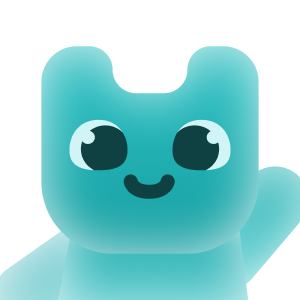
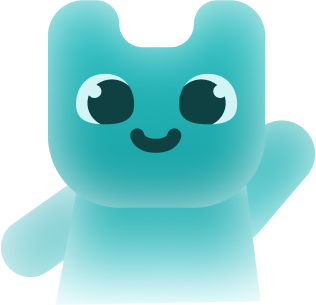
Rework home hero mascot: new art, sample-like placement, width-based fade
- Waving mascot (both arms) at bottom-right, tilted, body cropped by card
- Opacity eases out as the hero narrows instead of disappearing abruptly
- Hero label: 바로 찾는 필수 정보

Claude-Session: https://claude.ai/code/session_011hy1mZKcrnSKsSAkYKgChq

diff --git a/src/pages/home/components/RequiredInfoSection.tsx b/src/pages/home/components/RequiredInfoSection.tsx
@@ -17,6 +17,26 @@ export default function RequiredInfoSection() {
   const navigate = useNavigate();
   const sectionRef = useRef<HTMLElement>(null);
   const glowRef = useRef<HTMLSpanElement>(null);
+  const mascotRef = useRef<HTMLImageElement>(null);
+
+  // 히어로 폭이 줄어들수록 캐릭터가 서서히 투명해지도록 (갑자기 사라지지 않게)
+  useEffect(() => {
+    const section = sectionRef.current;
+    const mascot = mascotRef.current;
+    if (!section || !mascot) return;
+
+    const update = () => {
+      const width = section.clientWidth;
+      const opacity = Math.min(Math.max((width - 760) / 220, 0), 1) * 0.85;
+      mascot.style.opacity = String(opacity);
+      mascot.style.visibility = opacity === 0 ? "hidden" : "visible";
+    };
+
+    update();
+    const observer = new ResizeObserver(update);
+    observer.observe(section);
+    return () => observer.disconnect();
+  }, []);
   const { data: counts } = useInfoItemCounts();
 
   const countMap: Record<ParentCategory, number> = {
@@ -89,16 +109,18 @@ export default function RequiredInfoSection() {
         className="hero-blob pointer-events-none absolute left-0 top-0 -z-10 hidden h-[360px] w-[360px] opacity-0 transition-opacity duration-700 lg:block"
       />
 
-      {/* 임시 마스코트: 넓은 PC 화면에서만 우측에 살짝 기울여 배치 (카테고리 아이콘과 겹치지 않도록 xl 이상) */}
+      {/* 임시 마스코트: PC에서만 우측 하단에 살짝 기울여 배치, 몸통 아래는 카드 밖으로 잘림 */}
       <img
+        ref={mascotRef}
         src={mascotWave}
         alt=""
         aria-hidden="true"
         draggable={false}
-        className="pointer-events-none absolute -bottom-[52px] right-[56px] -z-10 hidden w-[300px] rotate-[-8deg] select-none opacity-80 [mask-image:linear-gradient(180deg,#000_62%,transparent)] xl:block"
+        className="pointer-events-none absolute -bottom-[64px] right-[4%] -z-10 hidden w-[340px] rotate-[-6deg] select-none [mask-image:linear-gradient(180deg,#000_55%,rgb(0_0_0_/_0.35)_88%)] lg:block"
+        style={{ opacity: 0 }}
       />
 
-      <p className="text-[14px] font-medium text-background-400">우리 아이를 위한 정보</p>
+      <p className="text-[14px] font-medium text-background-400">바로 찾는 필수 정보</p>
       <h1 className="mt-[8px] text-[24px] font-bold leading-[34px] tracking-[-0.02em] text-background-600 lg:text-[28px] lg:leading-[40px]">
         필요한 정보를
         <br />
